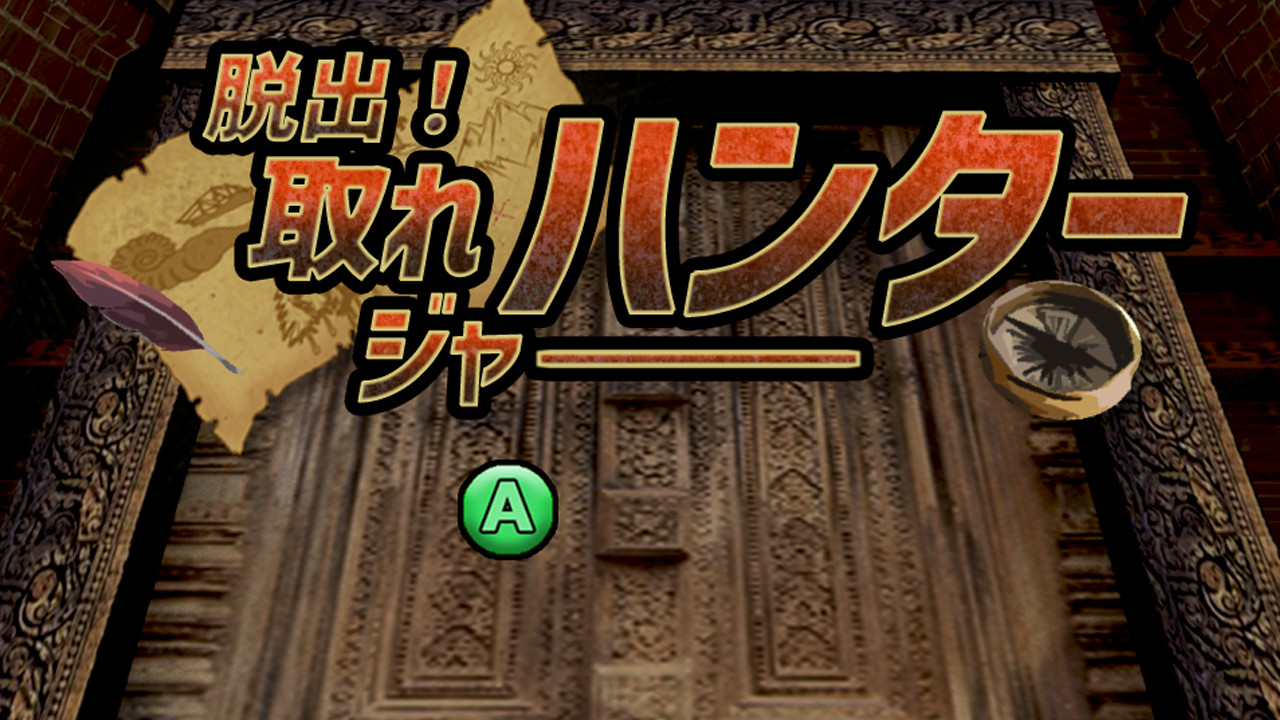
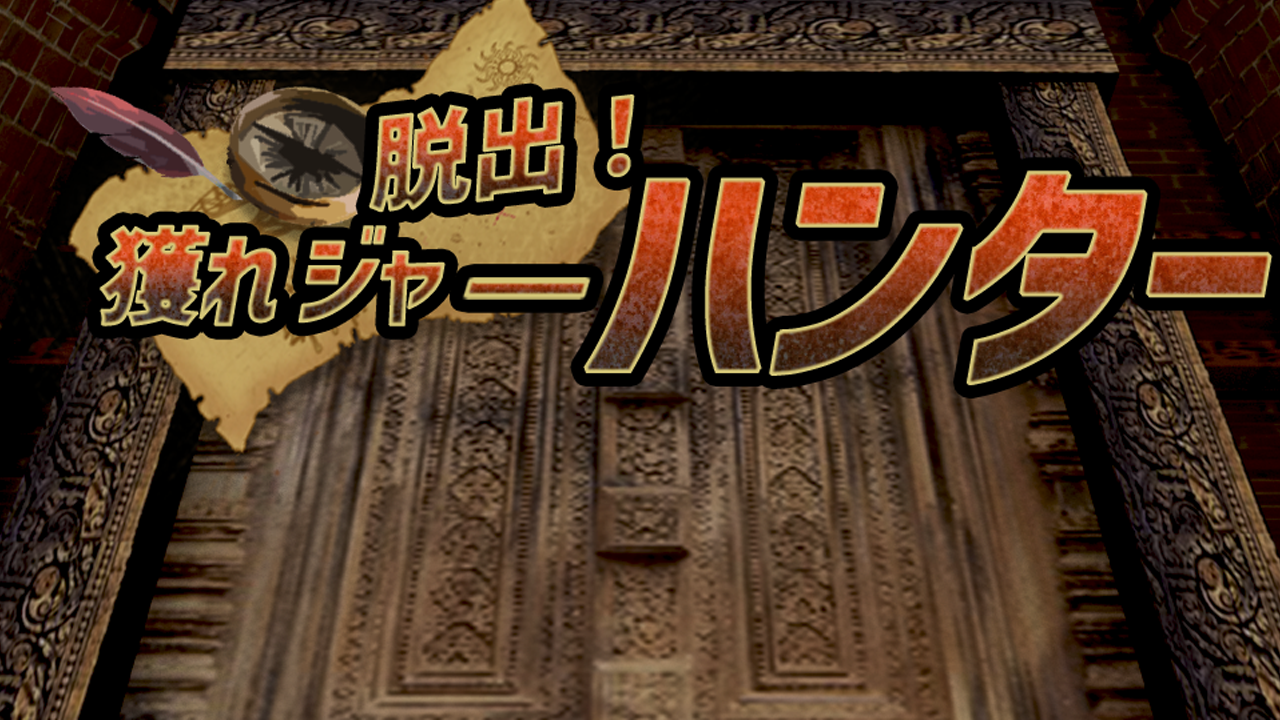
[メインシーン]矢(下向き)の落下挙動を更新、コウモリ(演出)の座標更新[素材]タイトル画面の画像更新

diff --git a/DirectX12/DirectX12 Game Solution/DirectX12 MainProject/Scene.h b/DirectX12/DirectX12 Game Solution/DirectX12 MainProject/Scene.h
@@ -10,7 +10,7 @@ enum class NextScene : int {
 	MainScene,
 	GameOverScene,
 	ClearScene,
-	StartScene = MainScene
+	StartScene = TitleScene
 };
 
 class Scene {
